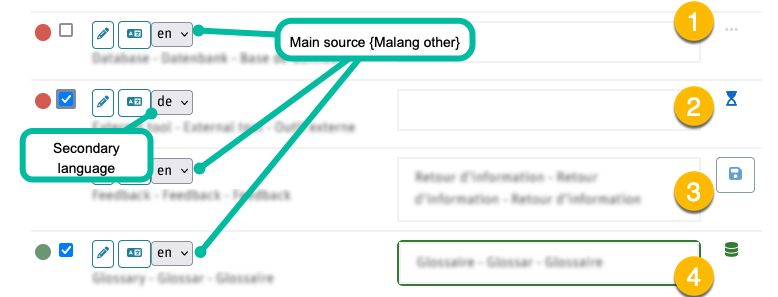
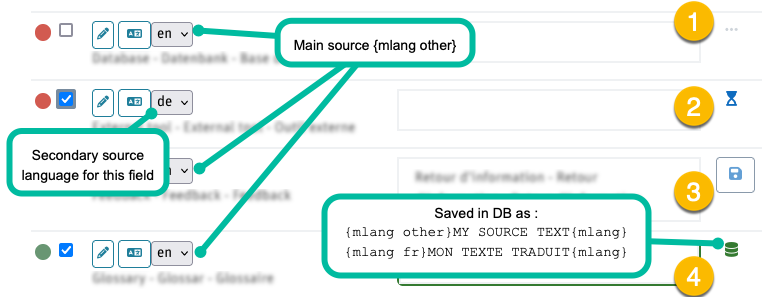
README corrections and more skipped fields

diff --git a/classes/data/course_data.php b/classes/data/course_data.php
@@ -70,9 +70,11 @@ class course_data {
         $this->modinfo = $modinfo;
         // Set language.
         $this->lang = $lang;
-        // Set the db fileds to skipp.
+        // Set the db fields to skipp.
         $this->colstoskip = ['displayoptions', 'parameters', 'outputformat', 'authors', 'changes', 'conditions',
                 'reference', 'allowedqtypes', 'excluderoles', 'questions', 'csstemplate', 'config', 'firstpagetitle',
+                'moderatorpass', 'participants', 'guestpassword', 'setting', 'strategy', 'json_content', 'filtered',
+                'linkedwooclapeventslug', 'wooclapeventid', 'metadata'
         ];
     }
 

diff --git a/README.md b/README.md
@@ -1,20 +1,19 @@
-# Deepl Translator for Moodle
+# Deepler, Multilang Machine Translator for Moodle
 
 [![Moodle Plugin CI](https://github.com/brunobaudry/moodle-local_deepler/actions/workflows/moodle-ci.yml/badge.svg)](https://github.com/brunobaudry/moodle-local_deepler/actions/workflows/moodle-ci.yml) [![Dependency Review](https://github.com/brunobaudry/moodle-local_deepler/actions/workflows/dependency-review.yml/badge.svg)](https://github.com/brunobaudry/moodle-local_deepler/actions/workflows/dependency-review.yml)
 [![Maintainability Rating](https://sonarcloud.io/api/project_badges/measure?project=brunobaudry_moodle-local_deepler&metric=sqale_rating)](https://sonarcloud.io/summary/new_code?id=brunobaudry_moodle-local_deepler) [![Quality Gate Status](https://sonarcloud.io/api/project_badges/measure?project=brunobaudry_moodle-local_deepler&metric=alert_status)](https://sonarcloud.io/summary/new_code?id=brunobaudry_moodle-local_deepler)
 
-Course Translator is a local moodle plugin that provides a content translation page for courses and automatic machine translation using the ©Deepl Pro Translation api. Currently it
-can translate content two levels deep and is developed for those who want to translate a course all on one page without having to navigate to each module and update
-translations.
+Deepler is a local moodle plugin that provides a content translation page for courses and automatic machine translation using the ©Deepl Pro Translation api.
+It is developed for those who want to translate a course all on one page without having to navigate to each module and update translations.
 Translation workflow being the following:
 
 0. Fine tune your ©Deepl's settings.
-1. Select the source language.
+1. Select the source(s) language(s).
 2. Select the target language.
 3. Select the fields to translate.
 4. Send to ©Deepl.
 5. Review and or amend automated translations.
-6. Save translations to Moodle's DB.
+6. Save translations to Moodle's DB (with the multilang {mlang XX} tags).
 
 [Multi-Language Content (v2)](https://moodle.org/plugins/filter_multilang2) is a dependency of this plugin and will not work without it.
 
@@ -185,12 +184,16 @@ The original content **has already MLANG tag** and the source lang is different 
 
 ![](pix/modules_activities.png)
 
-To help the translator grasp the content's context the text are displayed in the order of appearance of the course and with a "MODULE" separator corresponding to the activities
-grouping.
+Content's texts fields are displayed in the order of appearance of the course.
+A module (course settings, topics etc.) separator corresponding to the activities grouping is displayed with its title,
+underneath you can see it available for translation.
+
+_Note that: for now, the naming of the instances as well ads the fields are the DB ones,
+it will soon be replaced by the one used in Moodle's course layout for a better usability._
 
 ## User tour (inline tutorial)
 
-You can install a [tour guide](https://github.com/brunobaudry/moodle-local_deepler/blob/main/tourguide/tour_export.json) to simplify your translators's trainings.
+You can install a [tour guide](https://github.com/brunobaudry/moodle-local_deepler/blob/main/tourguide/tour_export.json) to simplify your translators' trainings.
 
 See moodle's instructions here : [User tours](https://docs.moodle.org/31/en/User_tours)
 
